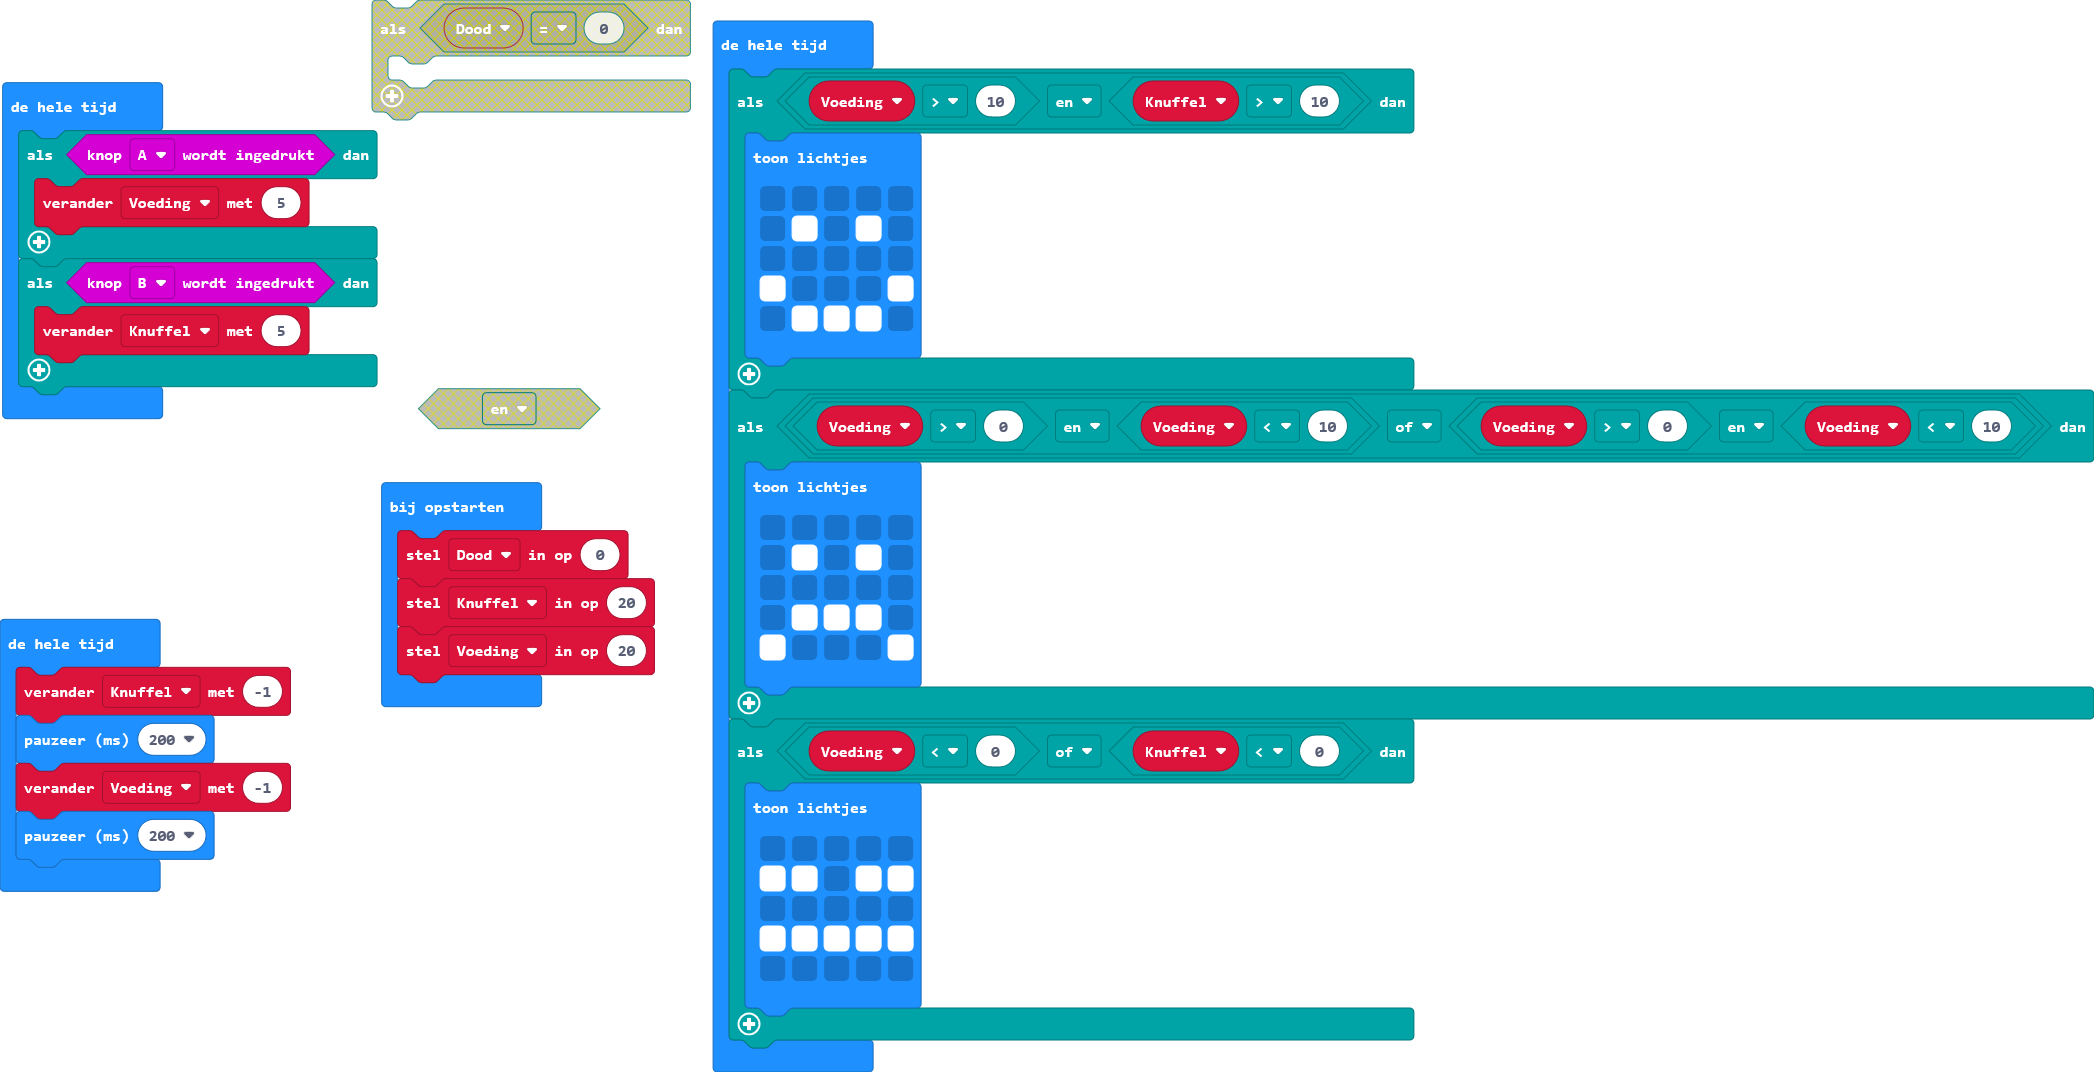
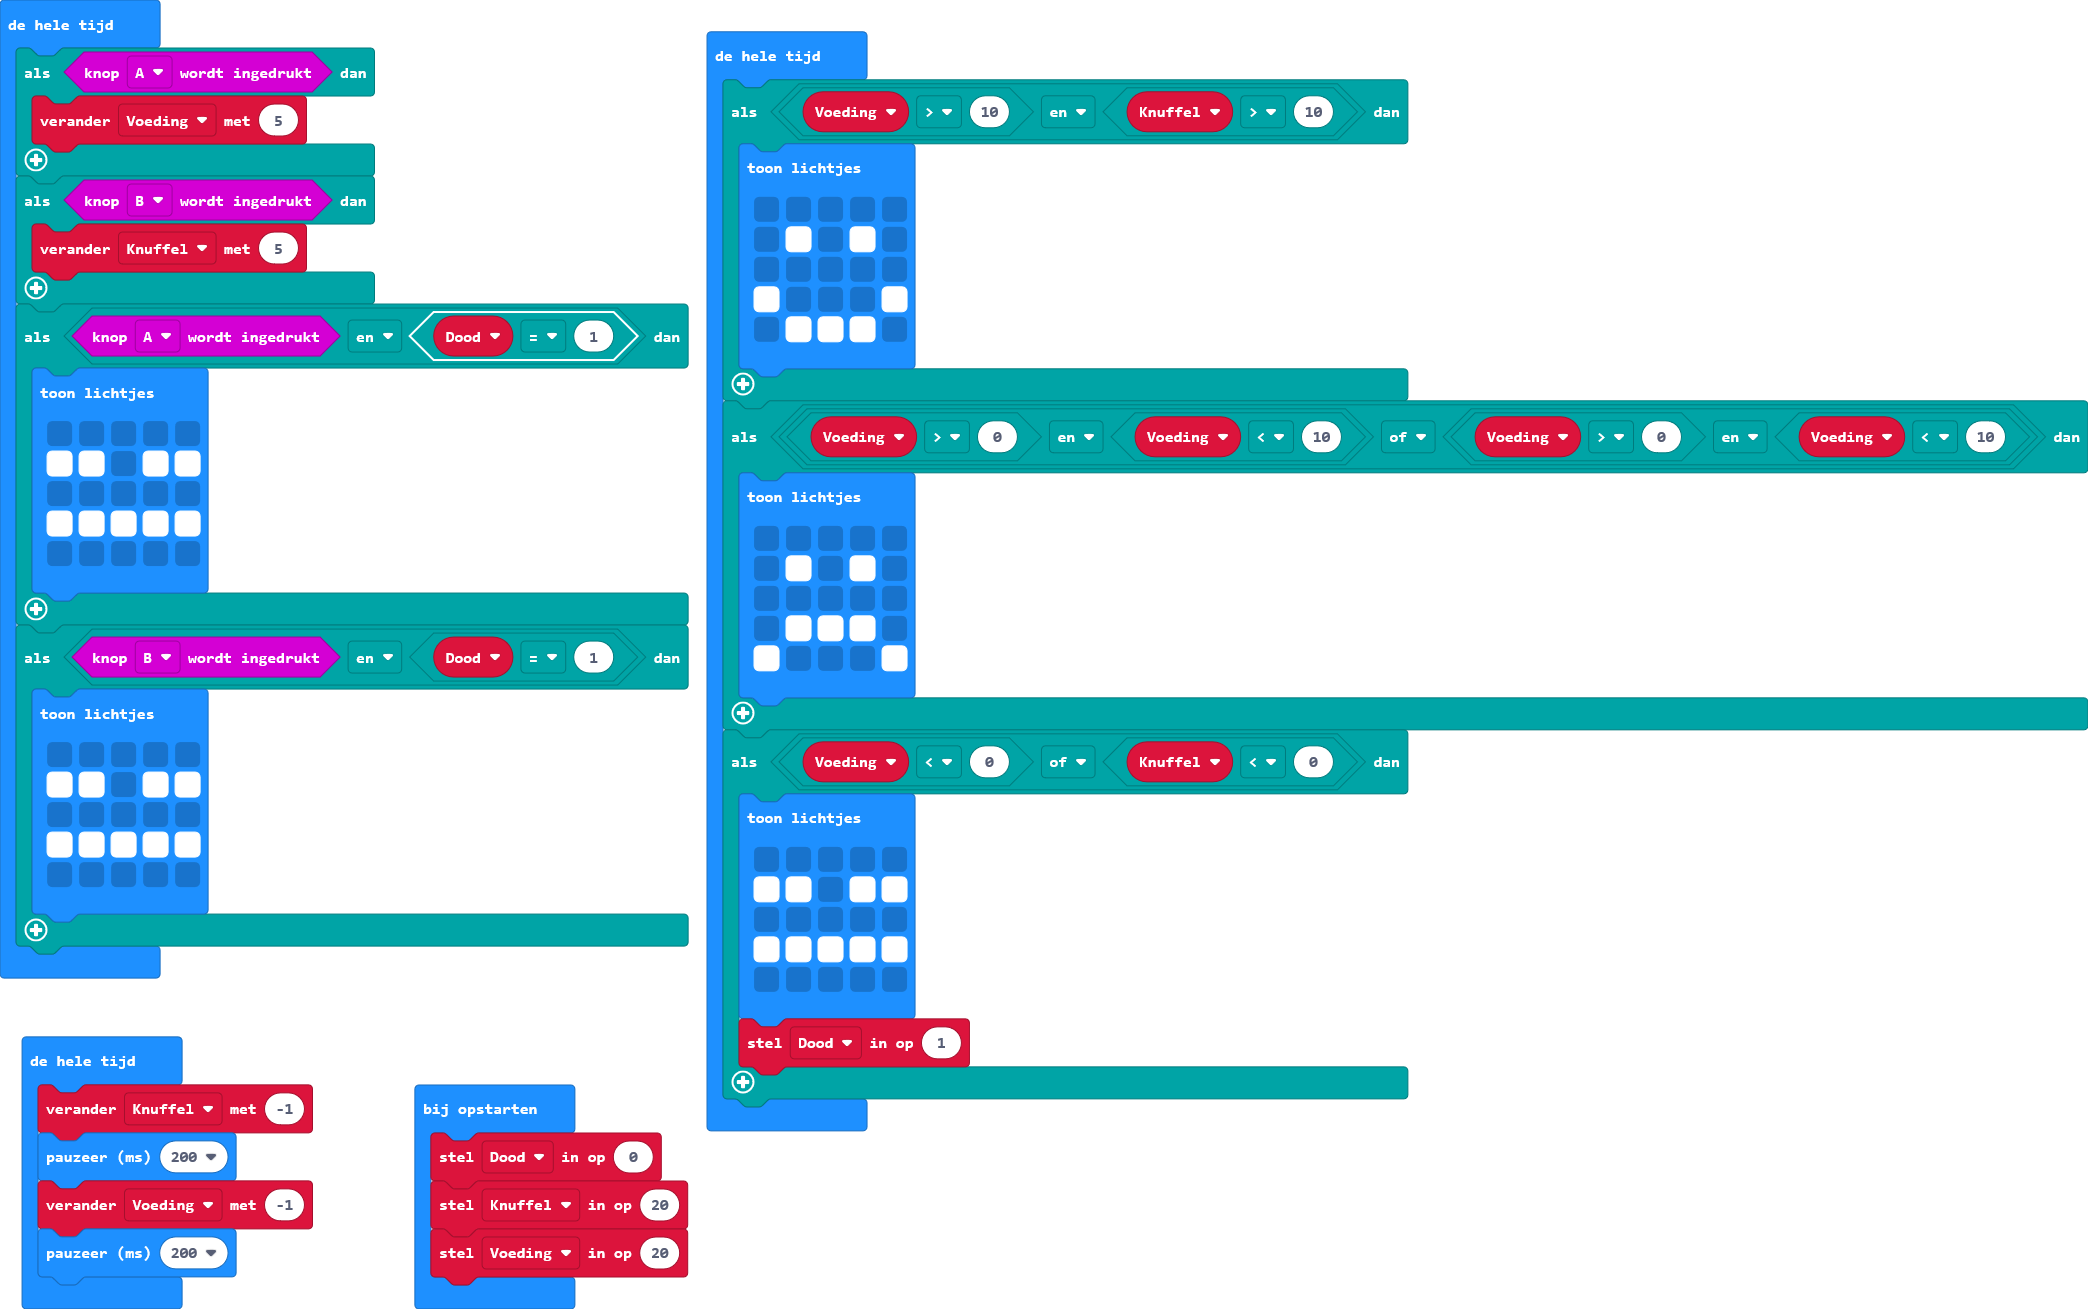
main.blocks, main.ts bijwerken

diff --git a/main.ts b/main.ts
@@ -2,6 +2,32 @@ let Dood = 0
 let Knuffel = 20
 let Voeding = 20
 basic.forever(function () {
+    if (input.buttonIsPressed(Button.A)) {
+        Voeding += 5
+    }
+    if (input.buttonIsPressed(Button.B)) {
+        Knuffel += 5
+    }
+    if (input.buttonIsPressed(Button.A) && Dood == 1) {
+        basic.showLeds(`
+            . . . . .
+            # # . # #
+            . . . . .
+            # # # # #
+            . . . . .
+            `)
+    }
+    if (input.buttonIsPressed(Button.B) && Dood == 1) {
+        basic.showLeds(`
+            . . . . .
+            # # . # #
+            . . . . .
+            # # # # #
+            . . . . .
+            `)
+    }
+})
+basic.forever(function () {
     if (Voeding > 10 && Knuffel > 10) {
         basic.showLeds(`
             . . . . .
@@ -28,14 +54,7 @@ basic.forever(function () {
             # # # # #
             . . . . .
             `)
-    }
-})
-basic.forever(function () {
-    if (input.buttonIsPressed(Button.A)) {
-        Voeding += 5
-    }
-    if (input.buttonIsPressed(Button.B)) {
-        Knuffel += 5
+        Dood = 1
     }
 })
 basic.forever(function () {
